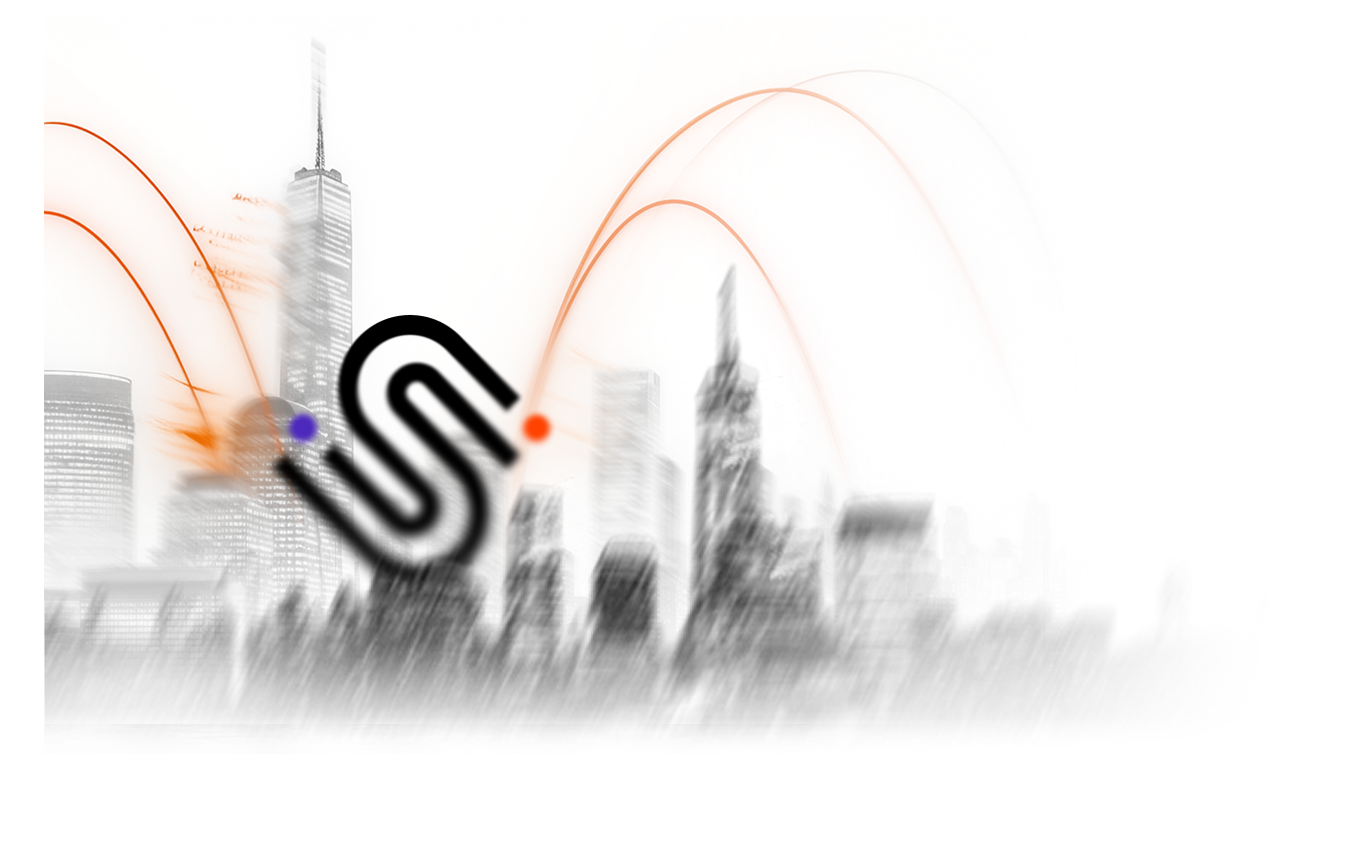
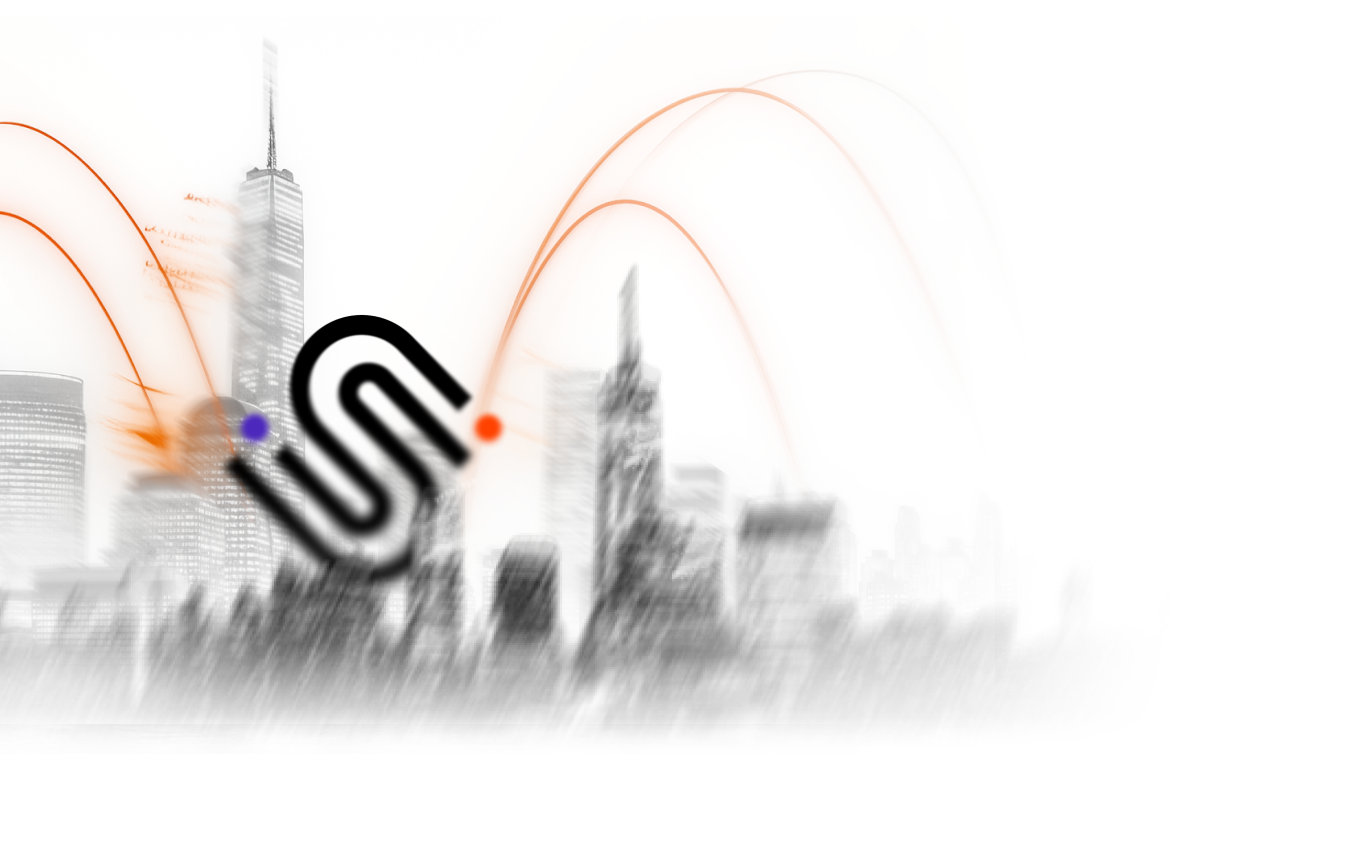
arabic image for hero

diff --git a/src/components/Capabilities/capabilities.data.jsx b/src/components/Capabilities/capabilities.data.jsx
@@ -52,19 +52,31 @@ export const capability_data = {
       cards: [
         {
           id: "cross-channel",
-          title: "مطابقة الجمهور عبر القنوات",
+          title: {
+            part1: "مطابقة الجمهور",
+            part2: "عبر القنوات",
+          },
         },
         {
           id: "enrichment",
-          title: "إثراء بيانات الجمهور",
+          title: {
+            part1: "إثراء بيانات",
+            part2: "الجمهور",
+          },
         },
         {
           id: "retargeting",
-          title: "إعادة استهداف الجمهور",
+          title: {
+            part1: "إعادة استهداف",
+            part2: "الجمهور",
+          },
         },
         {
           id: "attribution",
-          title: "نسب غير متصل بالإنترنت",
+          title: {
+            part1: "الإحالة التسويقية",
+            part2: "غير المتصلة بالإنترنت",
+          },
         },
       ],
     },

diff --git a/src/components/Capabilities/CapabilityCard.jsx b/src/components/Capabilities/CapabilityCard.jsx
@@ -38,11 +38,19 @@ const CapabilityCard = ({ card, isActive, onClick, "data-card-id": dataCardId })
         <card.icon className={card.sizeClassName} isActive={isActive} />
         <Typography
           as="p"
-          className={`flex h-auto w-full items-center justify-center text-center text-[14px] font-bold transition-colors duration-300 ease-in-out select-none lg:text-[22px] ${
+          className={`flex flex-col h-auto w-full items-center justify-center text-center text-[14px] font-bold transition-colors duration-300 ease-in-out select-none lg:text-[22px] ${
             isActive ? "text-white" : "text-black"
           }`}
         >
-          {card.title}
+          {typeof card.title === "object" ? (
+            <>
+              {card.title.part1}
+              <br />
+              <Typography.Text>{card.title.part2}</Typography.Text>
+            </>
+          ) : (
+            card.title
+          )}
         </Typography>
       </Flex>
       <GlassCircle

diff --git a/src/components/Hero/Hero.jsx b/src/components/Hero/Hero.jsx
@@ -20,7 +20,7 @@ const Hero = ({ id }) => {
     "ltr:bg-position-[right_-50px_top_0px] ltr:md:bg-position-[right_0_top_-50px] ltr:lg:bg-position-[right_0_top_10px] ltr:xl:bg-position-[right_-236px_top_-43px] ltr:2xl:bg-position-[right_-120px_top_10%] ltr:3xl:bg-position-[right_-50px_top_0] rtl:bg-position-[left_-50px_top_0px] rtl:md:bg-position-[left_-50px_top_-50px] rtl:lg:bg-position-[left_-40px_top_10px] rtl:xl:bg-position-[left_-236px_top_-43px] rtl:2xl:bg-position-[left_-120px_top_10%] rtl:3xl:bg-position-[left_-50px_top_0]";
 
   const bgSizing =
-    "bg-size-[auto_516px] md:bg-size-[663.568px_auto] rtl:md:bg-size-[1100px_auto] lg:bg-size-[1024px_auto] 2xl:bg-size-[auto_100%]";
+    "bg-size-[auto_516px] md:bg-size-[663.568px_auto] lg:bg-size-[1024px_auto] 2xl:bg-size-[auto_100%]";
 
   return (
     <div className="bg-white">

diff --git a/src/components/Hero/HeroFeatures.jsx b/src/components/Hero/HeroFeatures.jsx
@@ -4,10 +4,10 @@ import { Typography, List } from "../../components";
 const HeroFeatures = ({ data }) => (
   <List
     variant="bulleted"
-    className="flex flex-col items-start justify-start xl:justify-between space-y-1 xl:space-y-0 xl:flex-row lg:space-x-16 pl-4 xl:pl-0 mx-auto w-full"
+    className="flex flex-col items-start justify-start xl:justify-between space-y-1 xl:space-y-0 xl:flex-row lg:space-x-16 px-4 xl:pl-0 mx-auto w-full"
   >
     {data.map((el, i) => (
-      <List.Item key={`${el}_${i}`} className="list-disc ml-2 md:ml-4 xl:ml-0">
+      <List.Item key={`${el}_${i}`} className="list-disc mx-2 md:mx-4 xl:mx-0">
         <Typography
           as="p"
           variant="hero-feature"
